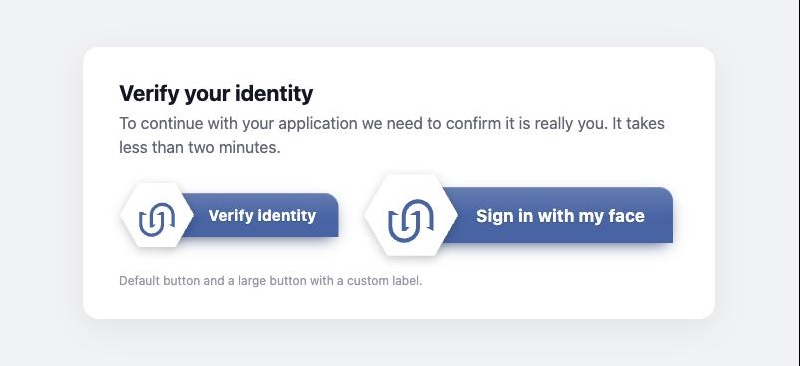
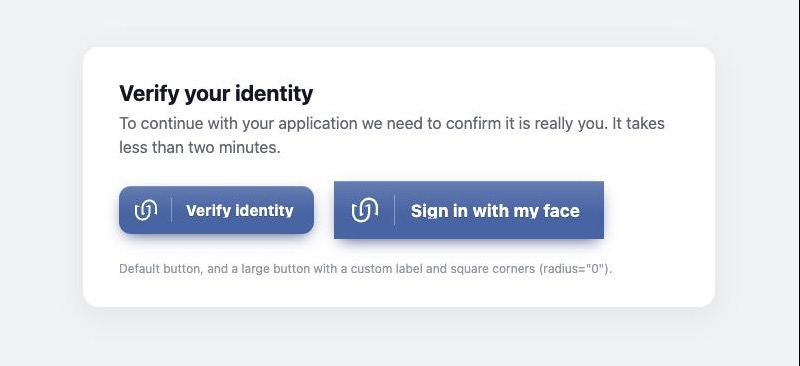
docs(web-sdk-5): new one-piece button, radius attribute and screenshot

Changed region(s): [[0.125, 0.4809, 0.8438, 0.7814]]

diff --git a/unicus/sdk-web-v5/button-reference.md b/unicus/sdk-web-v5/button-reference.md
@@ -16,7 +16,8 @@ description: >-
 | `language` | No | `es`, `en` | Language of the button label and of the verification screens. Defaults to the browser language when supported, otherwise Spanish. |
 | `data-flow-id` | No | flow slug | Runs a specific flow variant instead of the one assigned to the transaction type (for example an A/B variant or a flow for a specific product). The slug is shown in the portal. An unknown slug leaves the button in the *not configured* state (`2002`). |
 | `label` | No | text | Replaces the default label ("Validar identidad" / "Verify identity"), for example `Ingresar con mi rostro` on a login screen. |
-| `size` | No | `lg` | Larger button (56 px pill instead of 44 px). |
+| `size` | No | `lg` | Larger button (58 px tall instead of 48 px). |
+| `radius` | No | number of pixels, or `pill` | Corner rounding, so the button matches the buttons of your site: `0` for square corners, `4`, `8`… or `pill` for fully round ends. Default `12`. The CSS variable `--unicus-radius` does the same. |
 | `color` | No | `#rrggbb` | Forces the brand colour. When absent, the colour configured for the company in the portal is applied as soon as the transaction is created and remembered in the browser for the next visits. |
 | `textcolor` | No | `#rrggbb` | Forces the label colour. |
 | `disabled` | No | — | Prevents opening the flow. |
@@ -45,7 +46,7 @@ observe it (`button.getAttribute('state')`).
 | State | What the user sees | Meaning |
 | --- | --- | --- |
 | `idle` | Neutral button | Waiting for the required attributes. |
-| `loading` | Brand mark animating in the badge | The transaction is being created. A click during this state is honoured: the flow opens as soon as the transaction is ready. |
+| `loading` | Unicus mark animating inside the button | The transaction is being created. A click during this state is honoured: the flow opens as soon as the transaction is ready. |
 | `ready` | Brand colour, label | Transaction created (`OnUnicus:loaded` was emitted). |
 | `active` | Label "Validando…" / "Verifying…" | The verification is open in the iframe. |
 | `error` | Grey button, label "Reintentar" / "Retry" | The transaction could not be created (`OnUnicus:error`). A click retries. |
@@ -79,22 +80,22 @@ The flow is not rendered in a popup window, so popup blockers do not affect it.
 
 ## Appearance
 
-<figure><img src="../.gitbook/assets/web-sdk-5-button.jpg" alt="Default and large Unicus buttons" width="563"><figcaption><p>Default button and `size="lg"` with a custom `label`.</p></figcaption></figure>
+<figure><img src="../.gitbook/assets/web-sdk-5-button.jpg" alt="Default Unicus button and a large one with square corners" width="563"><figcaption><p>Default button, and <code>size="lg"</code> with a custom <code>label</code> and <code>radius="0"</code>.</p></figcaption></figure>
 
-The button is a hexagonal white badge with the Unicus mark over a pill in your
-brand colour, the same design as Web SDK 4.x. Colours come from the company configuration in the portal
-(`windowColor`, `textColor`); you can override them per page with attributes or
-CSS custom properties on the element:
+The button is one piece in your brand colour: the Unicus mark, a thin divider
+and the label, all in the text colour. Colours come from the company
+configuration in the portal (`windowColor`, `textColor`); you can override them
+per page with attributes or CSS custom properties on the element. Use `radius`
+(or `--unicus-radius`) to give it the same corners as the other buttons of your
+site:
 
 {% code overflow="wrap" %}
 ```css
 unicus-btn {
-  --unicus-color: #1e3163;        /* pill background */
-  --unicus-text-color: #ffffff;   /* label */
-  --unicus-badge: #ffffff;        /* hexagon */
-  --unicus-mark: #1e3163;         /* Unicus mark inside the hexagon */
-  --unicus-accent: #f9ab01;       /* sweep colour of the loading animation */
-  --unicus-radius: 14px;
+  --unicus-color: #1e3163;        /* background */
+  --unicus-text-color: #ffffff;   /* label, divider and Unicus mark */
+  --unicus-accent: #f9ab01;       /* sweep colour of the loading animation on the mark */
+  --unicus-radius: 4px;           /* corners; same as radius="4" */
   --unicus-font: inherit;
 }
 ```

diff --git a/unicus/sdk-web-v5/quick-start.md b/unicus/sdk-web-v5/quick-start.md
@@ -45,7 +45,7 @@ optional attributes). A breaking change will be published under a new path.
 ```
 {% endcode %}
 
-<figure><img src="../.gitbook/assets/web-sdk-5-button.jpg" alt="The Unicus button on a customer page: default size and large size with a custom label" width="563"><figcaption><p>The button on a page, in the company colour: default, and large with a custom label.</p></figcaption></figure>
+<figure><img src="../.gitbook/assets/web-sdk-5-button.jpg" alt="The Unicus button on a customer page: default, and large with a custom label and square corners" width="563"><figcaption><p>The button on a page, in the company colour: default, and large with a custom label and square corners.</p></figcaption></figure>
 
 * `customerid`: your company's Customer Token (Company → Settings in the
   administrative portal).
@@ -66,7 +66,7 @@ your stylesheet:
 
 {% code overflow="wrap" %}
 ```css
-unicus-btn:not(:defined) { display: inline-block; min-width: 224px; height: 58px; }
+unicus-btn:not(:defined) { display: inline-block; min-width: 200px; height: 48px; }
 ```
 {% endcode %}
 
@@ -231,6 +231,7 @@ declare module 'react' {
         language?: 'es' | 'en';
         label?: string;
         size?: 'lg';
+        radius?: string;
       };
     }
   }

diff --git a/unicus/sdk-web-v5/versioning.md b/unicus/sdk-web-v5/versioning.md
@@ -32,8 +32,8 @@ The script is published under a major-version path:
   progress and the final result on the computer.
 * One-time hand-off tokens in the URL fragment; the transaction id never
   travels in a link.
-* Button redesign: brand colours applied automatically and remembered, `label`
-  and `size` attributes, visible states, click during loading honoured, new
+* Button redesign: one piece with the Unicus mark, brand colours applied
+  automatically and remembered, `label`, `size` and `radius` attributes, visible states, click during loading honoured, new
   transaction after every finished or exited flow.
 * Events: `stepProgress` payloads per step, `resultCode` in `finished` and
   `error`, `2002` *not configured*, `2013` *under review*.
